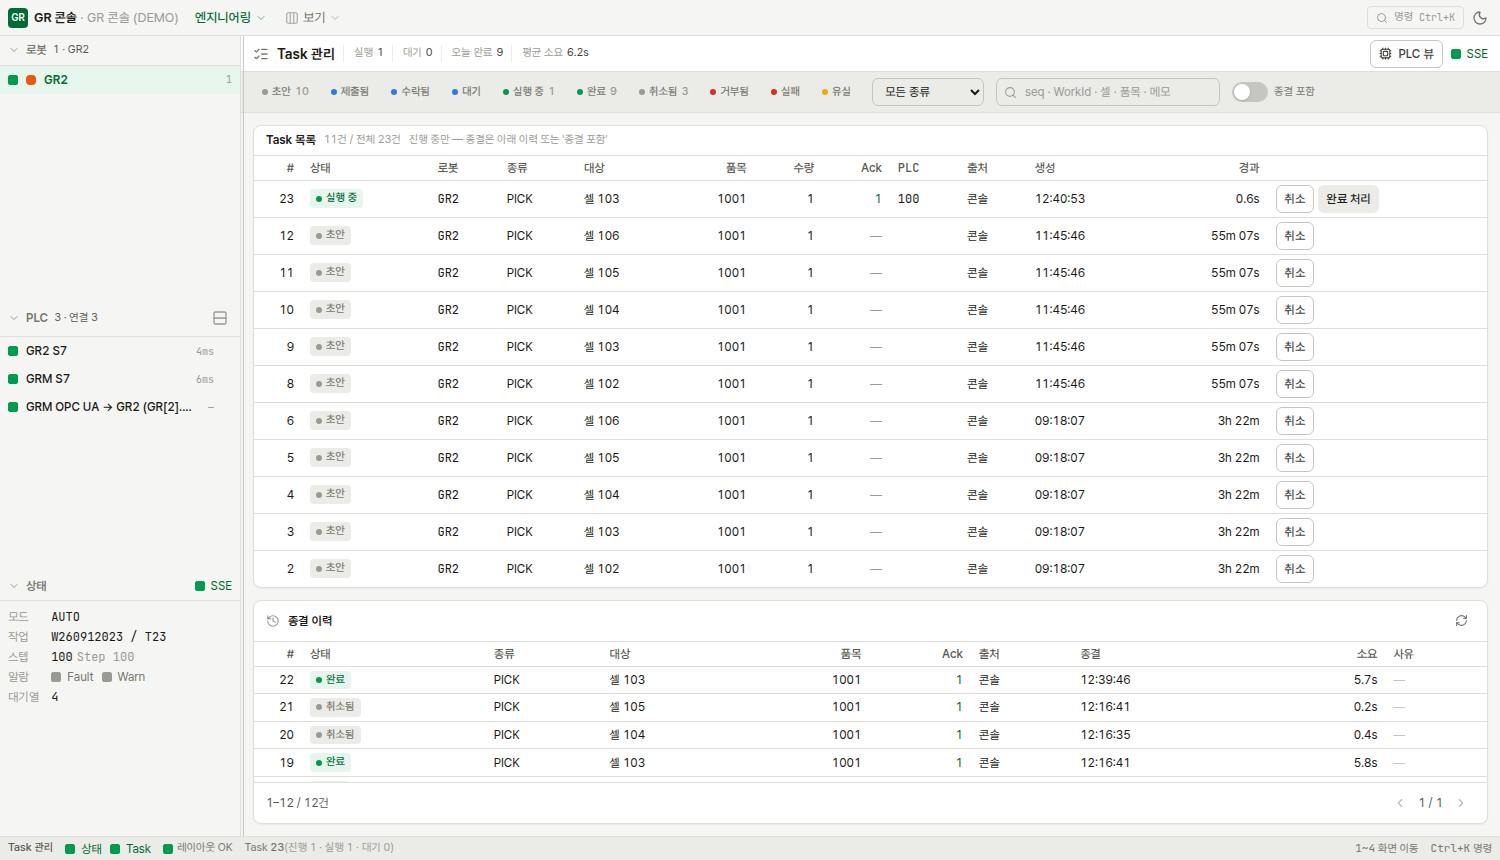
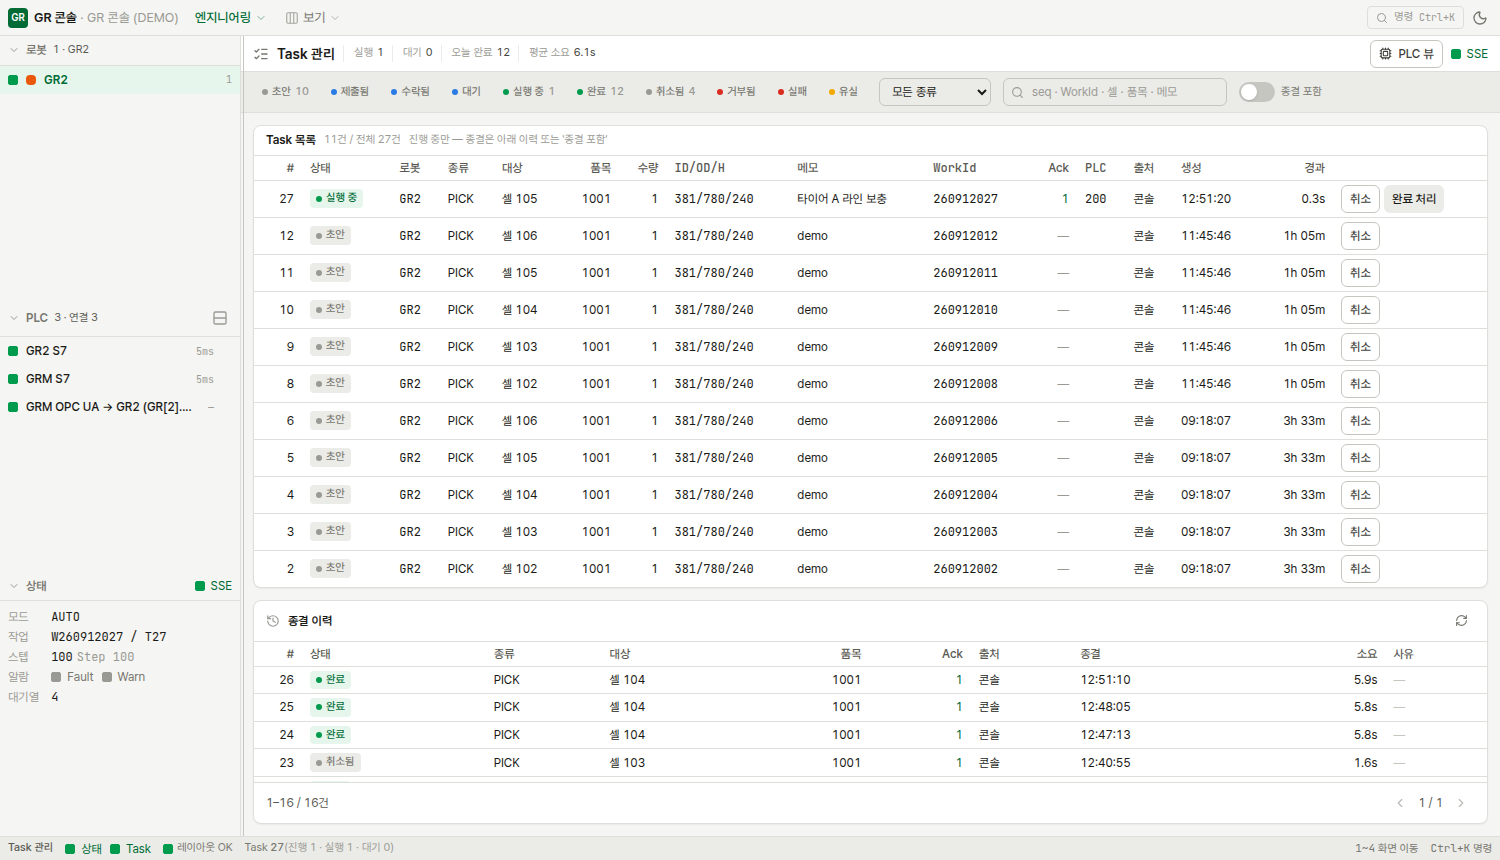
Task 목록에 식별 열 — 치수 ID/OD/H · 메모 · WorkId
번호·품목 코드만으로는 작업자가 무슨 작업인지 모른다. 메모(사람이 적은 뜻, 2순위)와
타이어 치수·WorkId(3순위 — 좁은 존에서는 행 펼치기로)를 표에 더하고, 확인 대화상자의
식별 블록에도 치수를 넣었다. targetLabel·dimsLabel은 lib/task/state.ts로(순수 도우미 —
표와 조작 컴포넌트가 서로 import하지 않게).

Claude-Session: https://claude.ai/code/session_011b3u36fz4wQ2544xtQUSrM

diff --git a/apps/gr-web/src/components/taskmgr/TaskTable.tsx b/apps/gr-web/src/components/taskmgr/TaskTable.tsx
@@ -17,7 +17,8 @@ import {
   elapsed,
   fmtElapsed,
   fmtTime,
-  targetOf,
+  dimsLabel,
+  targetLabel,
   typeName,
   type PlcTaskArea,
 } from '../../lib/task/state'
@@ -42,11 +43,8 @@ export interface TaskTableProps {
 /** 행에 싣는 조작은 PLC에 가는 둘뿐이다 — 실패 표시·삭제·재제출은 상세에서(행이 조작 띠가 되지 않게). */
 const ROW_ACTIONS = ['cancel', 'complete'] as const
 
-export function targetLabel(task: Task): string {
-  const t = targetOf(task)
-  if (!t) return ''
-  return `${t.kind === 'station' ? 'ST' : '셀'} ${t.id}`
-}
+// 라벨 도우미는 `lib/task/state.ts`에 있다(순수 · 테스트 가능). 여기서는 이력 표가 쓰던 이름을 그대로 낸다.
+export { targetLabel }
 
 /** PLC 자리 — 실행 중이면 스텝, 대기면 큐 슬롯. */
 function plcStep(task: Task): string {
@@ -137,6 +135,26 @@ export function TaskTable({
         label: '수량',
         get: (t) => t.plc_task?.Item?.Count ?? null,
         numeric: true,
+        priority: 3,
+      },
+      { key: 'dims', label: 'ID/OD/H', get: (t) => dimsLabel(t), class: 'font-mono', priority: 3 },
+      {
+        key: 'note',
+        label: '메모',
+        get: (t) => t.request?.note ?? '',
+        // 메모는 작업자가 적은 "이 작업의 뜻"이라 번호보다 먼저 알아본다 — 2순위. 길면 자른다.
+        cell: (t) => (
+          <span className="block max-w-48 truncate" title={t.request?.note ?? undefined}>
+            {t.request?.note ?? ''}
+          </span>
+        ),
+        priority: 2,
+      },
+      {
+        key: 'work',
+        label: 'WorkId',
+        get: (t) => (t.work_id ? String(t.work_id) : ''),
+        class: 'font-mono',
         priority: 3,
       },
       {

diff --git a/apps/gr-web/src/lib/task/state.ts b/apps/gr-web/src/lib/task/state.ts
@@ -263,6 +263,20 @@ export function targetOf(
   return { kind: isStationId(id) ? 'station' : 'cell', id }
 }
 
+/** 대상 표시 — 표·대화상자가 같은 말을 쓴다(`셀 104` · `ST 2001`). */
+export function targetLabel(task: Pick<Task, 'request' | 'plc_task'>): string {
+  const t = targetOf(task)
+  if (!t) return ''
+  return `${t.kind === 'station' ? 'ST' : '셀'} ${t.id}`
+}
+
+/** 타이어 치수 `ID/OD/H` — 품목 코드만으로는 현장에서 어떤 타이어인지 모른다. 없으면 빈 문자열. */
+export function dimsLabel(task: Pick<Task, 'plc_task'>): string {
+  const i = task.plc_task?.Item
+  if (!i || (!i.InnerDiameter && !i.OuterDiameter && !i.Height)) return ''
+  return `${Math.round(i.InnerDiameter)}/${Math.round(i.OuterDiameter)}/${Math.round(i.Height)}`
+}
+
 /** 스테이션 Id 규칙 — 백엔드 `gr_proto::is_station_id`: 2001..2999 이고 `id MOD 100 ∈ 1..32`. */
 export function isStationId(id: number): boolean {
   return id >= 2001 && id <= 2999 && id % 100 >= 1 && id % 100 <= 32

diff --git a/apps/gr-web/src/components/taskmgr/TaskActions.tsx b/apps/gr-web/src/components/taskmgr/TaskActions.tsx
@@ -11,6 +11,7 @@ import {
   ACTION_LABEL,
   STATE_LABEL,
   allowedActions,
+  dimsLabel,
   isRobotAction,
   targetOf,
   typeName,
@@ -83,6 +84,7 @@ function identity(task: Task): FieldItem[] {
           ? `${req.item_code} × ${req.count ?? 1}`
           : null,
     },
+    { label: '치수 ID/OD/H', value: dimsLabel(task) || null, mono: true },
     { label: '로봇', value: task.plc_name ?? null },
     { label: '상태', value: STATE_LABEL[task.state] },
     {

diff --git a/docs/screenshots/README.md b/docs/screenshots/README.md
@@ -71,6 +71,6 @@
 | ![](50_dot_label_detail.png) | 상세의 값 자리는 점+글자(`연결됨` · `레이아웃 OK`) — 폭이 고정이라 옆 값의 x가 흔들리지 않는다 |
 | ![](51_cancel_timeline.png) | Task 취소 — 이력이 `delete requested`(콘솔) → `canceled on PLC (console request)`(PLC)로 읽힌다. PLC 자발 취소는 `(console request)`가 없다 |
 | ![](52_plc_view_terminal_bits.png) | PLC 뷰 — `Task.Status.Complete`·`Canceled` 비트가 보인다. 원장은 링보다 이 비트로 먼저 끝낸다 |
-| ![](53_row_actions.png) | Task 목록의 행 액션 — 취소·완료 처리 둘만, 오른쪽 끝 열의 글자 버튼. 상태가 허용하는 것만 선다(초안은 취소뿐) |
+| ![](53_row_actions.png) | Task 목록 — 행 액션(취소·완료 처리, 오른쪽 끝 열)과 식별 열(치수 `ID/OD/H` · 메모 · WorkId). 상태가 허용하는 조작만 선다(초안은 취소뿐) |
 | ![](54_row_action_confirm.png) | 확인 대화상자 — **질문 한 줄** + 어떤 Task인지 알아볼 라벨+값 짝(종류·대상·품목·로봇·상태·Id·메모). 규칙 안내문은 없다 |
 | ![](42_view_menu_fixed.png) | `보기` 메뉴 — 라벨이 줄어들지 않고 힌트가 먼저 잘린다(예전에는 `명령 중 / 심`으로 끊겼다) |
